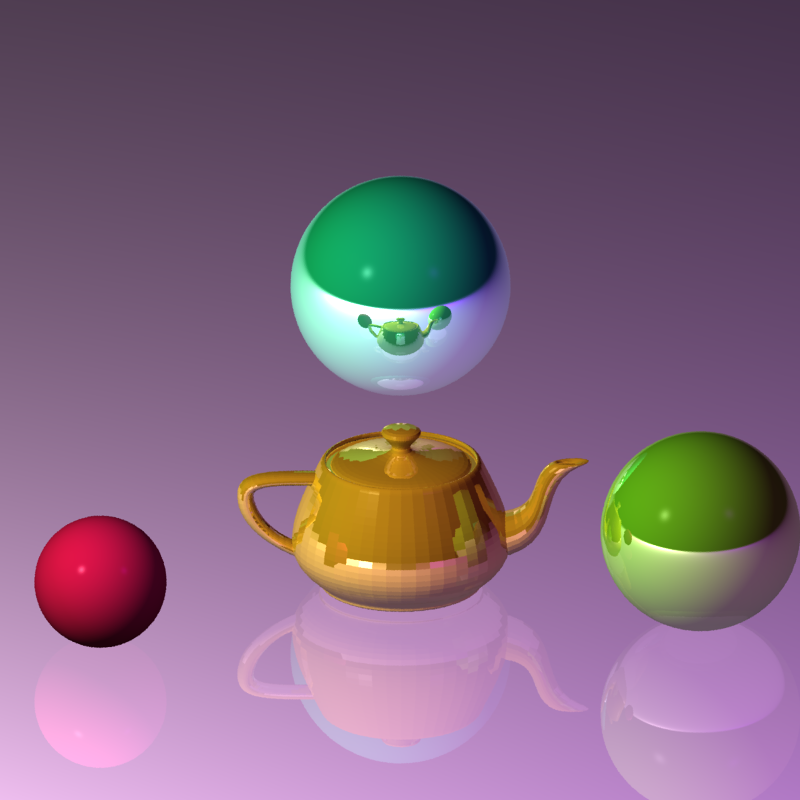
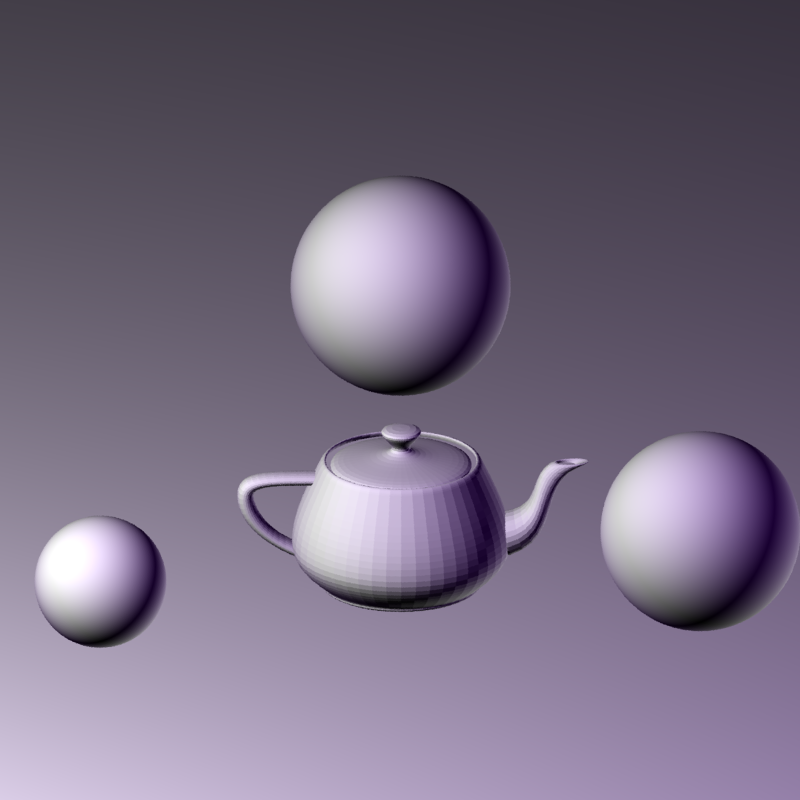
replace old Material with new

diff --git a/src/integrator/original.rs b/src/integrator/original.rs
@@ -1,6 +1,6 @@
 use crate::{
-    color::RgbSpectrum, geometry::vector, interaction::SurfaceInteraction, light::Light,
-    material_v1::MaterialV1, ray::Ray, sampler::IncrementalSampler, scene::Scene,
+    bsdf::BxdfType, color::RgbSpectrum, geometry::vector, interaction::SurfaceInteraction,
+    light::Light, material::Material, ray::Ray, sampler::IncrementalSampler, scene::Scene,
 };
 use cgmath::{InnerSpace, Point3, Vector3};
 use typed_arena::Arena;
@@ -38,7 +38,7 @@ impl OriginalRayTracer {
     pub fn shade_surface_interaction(
         scene: &Scene,
         interaction: &SurfaceInteraction,
-        material: &MaterialV1,
+        material: &dyn Material,
         remaining: usize,
     ) -> RgbSpectrum {
         scene
@@ -49,11 +49,11 @@ impl OriginalRayTracer {
                 // // the occlusion check doesn't accidentally intersect the surface.
                 // let in_shadow = Self::is_occluded(scene, interaction.over_point(), *light);
 
-                let surface = Self::shading(material, light, &interaction);
+                let surface = Self::shading_due_to_light(material, light, &interaction);
 
-                let reflected = Self::reflected_color(scene, material, interaction, remaining);
+                // let reflected = Self::reflected_color(scene, material, interaction, remaining);
 
-                color + surface + reflected
+                color + surface // + reflected
             })
     }
 
@@ -74,53 +74,65 @@ impl OriginalRayTracer {
     //     }
     // }
 
-    fn reflected_color(
-        scene: &Scene,
-        material: &MaterialV1,
-        interaction: &SurfaceInteraction,
-        remaining: usize,
-    ) -> RgbSpectrum {
-        if remaining < 1 || material.reflective == 0.0 {
-            RgbSpectrum::constant(0.0)
-        } else {
-            let reflect_ray = Ray::new(interaction.over_point(), interaction.reflect());
-            let color = Self::color_at(scene, &reflect_ray, remaining - 1);
-            color * material.reflective
-        }
-    }
+    // fn reflected_color(
+    //     scene: &Scene,
+    //     material: &dyn Material,
+    //     interaction: &SurfaceInteraction,
+    //     remaining: usize,
+    // ) -> RgbSpectrum {
+    //     if remaining < 1 || material.reflective == 0.0 {
+    //         RgbSpectrum::constant(0.0)
+    //     } else {
+    //         let reflect_ray = Ray::new(interaction.over_point(), interaction.reflect());
+    //         let color = Self::color_at(scene, &reflect_ray, remaining - 1);
+    //         color * material.reflective
+    //     }
+    // }
 
-    fn shading(
-        material: &MaterialV1,
+    fn shading_due_to_light(
+        material: &dyn Material,
         light: &Light, // FIXME
         interaction: &SurfaceInteraction,
     ) -> RgbSpectrum {
-        let (incident_light, to_light) = light.li(interaction);
-        let effective_color = &material.color * incident_light;
-        let ambient = &effective_color * material.ambient;
+        let (incident_light, wi) = light.li(interaction);
+        if incident_light.is_black() {
+            return RgbSpectrum::black();
+        }
 
-        // light_dot_normal is the cosine of the angle between the light and normal.
-        // If it's negative then the light is on the other side of the surface.
-        let light_dot_normal = to_light.dot(interaction.original_geometry.normal);
+        let bsdf = material.scattering_functions(interaction);
+        let f = bsdf.f(&interaction.neg_ray_direction, &wi, BxdfType::ALL);
+        if f.is_black() {
+            return RgbSpectrum::black();
+        }
 
-        let (diffuse, specular) = if light_dot_normal >= 0.0 {
-            let diffuse = effective_color * material.diffuse * light_dot_normal;
+        f * incident_light * wi.dot(interaction.original_geometry.normal).abs()
 
-            // reflect_dot_eye is the cosine of the angle between the reflection and
-            // the camera. If it's negative then the reflection is not visible.
-            let reflect = vector::reflect(-1.0 * to_light, interaction.original_geometry.normal);
-            let reflect_dot_eye = reflect.dot(interaction.neg_ray_direction);
-            let specular = if reflect_dot_eye <= 0.0 {
-                RgbSpectrum::constant(0.0)
-            } else {
-                let factor = reflect_dot_eye.powf(material.shininess);
-                incident_light * material.specular * factor
-            };
+        // let effective_color = &material.color * incident_light;
+        // let ambient = &effective_color * material.ambient;
 
-            (diffuse, specular)
-        } else {
-            (RgbSpectrum::black(), RgbSpectrum::black())
-        };
+        // // light_dot_normal is the cosine of the angle between the light and normal.
+        // // If it's negative then the light is on the other side of the surface.
+        // let light_dot_normal = to_light.dot(interaction.original_geometry.normal);
 
-        ambient + diffuse + specular
+        // let (diffuse, specular) = if light_dot_normal >= 0.0 {
+        //     let diffuse = effective_color * material.diffuse * light_dot_normal;
+
+        //     // reflect_dot_eye is the cosine of the angle between the reflection and
+        //     // the camera. If it's negative then the reflection is not visible.
+        //     let reflect = vector::reflect(-1.0 * to_light, interaction.original_geometry.normal);
+        //     let reflect_dot_eye = reflect.dot(interaction.neg_ray_direction);
+        //     let specular = if reflect_dot_eye <= 0.0 {
+        //         RgbSpectrum::constant(0.0)
+        //     } else {
+        //         let factor = reflect_dot_eye.powf(material.shininess);
+        //         incident_light * material.specular * factor
+        //     };
+
+        //     (diffuse, specular)
+        // } else {
+        //     (RgbSpectrum::black(), RgbSpectrum::black())
+        // };
+
+        // ambient + diffuse + specular
     }
 }

diff --git a/src/demo.rs b/src/demo.rs
@@ -6,7 +6,7 @@ use crate::{
     geometry::matrix::identity4,
     integrator::{render, OriginalRayTracer},
     light::Light,
-    material_v1::MaterialV1,
+    material::{Material, MatteMaterial},
     primitive::PrimitiveAggregate,
     sampler::{ConstantSampler, StratifiedSampler},
     scene::Scene,
@@ -57,7 +57,7 @@ pub fn teapot_orth() {
 fn teapot_scene<'msh, 'mtrx, 'mtrl>(
     mesh_arena: &'msh mut Arena<Mesh<'mtrx>>,
     matrix_arena: &'mtrx mut Arena<Matrix4<f32>>,
-    material_arena: &'mtrl mut Arena<MaterialV1>,
+    material_arena: &'mtrl mut Arena<MatteMaterial>,
 ) -> Scene<'msh, 'mtrx, 'mtrl> {
     let identity = matrix_arena.alloc(identity4());
     let right_transf = matrix_arena
@@ -74,46 +74,50 @@ fn teapot_scene<'msh, 'mtrx, 'mtrl>(
         matrix_arena.alloc(Matrix4::from_angle_x(Rad(PI / -2.0)) * Matrix4::from_scale(0.1));
     let inv_teapot_transf = matrix_arena.alloc(teapot_transf.inverse_transform().unwrap());
 
-    let floor_material = material_arena.alloc(MaterialV1::new(
-        RgbSpectrum::from_rgb(1.0, 0.9, 0.9),
-        0.1,
-        0.9,
-        0.0,
-        200.0,
-        0.1,
-    ));
-    let right_material = material_arena.alloc(MaterialV1::new(
-        RgbSpectrum::from_rgb(0.5, 1.0, 0.1),
-        0.1,
-        0.7,
-        0.3,
-        200.0,
-        0.25,
-    ));
-    let left_material = material_arena.alloc(MaterialV1::new(
-        RgbSpectrum::from_rgb(1.0, 0.1, 0.3),
-        0.1,
-        0.7,
-        0.3,
-        200.0,
+    let material = material_arena.alloc(MatteMaterial::new(
+        RgbSpectrum::from_rgb(0.4, 0.4, 0.4),
         0.0,
     ));
-    let back_material = material_arena.alloc(MaterialV1::new(
-        RgbSpectrum::from_rgb(0.1, 1.0, 0.5),
-        0.1,
-        0.7,
-        0.3,
-        200.0,
-        0.5,
-    ));
-    let triangle_material = material_arena.alloc(MaterialV1::new(
-        RgbSpectrum::from_rgb(1.0, 0.8, 0.1),
-        0.1,
-        0.7,
-        0.3,
-        100.0,
-        0.2,
-    ));
+    // let floor_material = material_arena.alloc(MaterialV1::new(
+    //     RgbSpectrum::from_rgb(1.0, 0.9, 0.9),
+    //     0.1,
+    //     0.9,
+    //     0.0,
+    //     200.0,
+    //     0.1,
+    // ));
+    // let right_material = material_arena.alloc(MaterialV1::new(
+    //     RgbSpectrum::from_rgb(0.5, 1.0, 0.1),
+    //     0.1,
+    //     0.7,
+    //     0.3,
+    //     200.0,
+    //     0.25,
+    // ));
+    // let left_material = material_arena.alloc(MaterialV1::new(
+    //     RgbSpectrum::from_rgb(1.0, 0.1, 0.3),
+    //     0.1,
+    //     0.7,
+    //     0.3,
+    //     200.0,
+    //     0.0,
+    // ));
+    // let back_material = material_arena.alloc(MaterialV1::new(
+    //     RgbSpectrum::from_rgb(0.1, 1.0, 0.5),
+    //     0.1,
+    //     0.7,
+    //     0.3,
+    //     200.0,
+    //     0.5,
+    // ));
+    // let triangle_material = material_arena.alloc(MaterialV1::new(
+    //     RgbSpectrum::from_rgb(1.0, 0.8, 0.1),
+    //     0.1,
+    //     0.7,
+    //     0.3,
+    //     100.0,
+    //     0.2,
+    // ));
 
     let floor = Shape::plane(identity, identity, false);
     let right = Shape::sphere(right_transf, right_inv_transf, false);
@@ -124,23 +128,23 @@ fn teapot_scene<'msh, 'mtrx, 'mtrl>(
     let mut reader = std::io::BufReader::new(&file);
     let teapot_mesh = mesh_arena
         .alloc(Mesh::from_stl(teapot_transf, inv_teapot_transf, false, &mut reader).unwrap());
-    let teapot = PrimitiveAggregate::from_mesh(teapot_mesh, triangle_material);
+    let teapot = PrimitiveAggregate::from_mesh(teapot_mesh, material);
 
     let light1 = Light::point_light(
         Point3::new(-10.0, 10.0, -10.0),
-        RgbSpectrum::from_rgb(1.0, 1.0, 1.0) * 250.0,
+        RgbSpectrum::from_rgb(1.0, 1.0, 1.0) * 2000.0,
     );
     let light2 = Light::point_light(
         Point3::new(10.0, 10.0, -10.0),
-        RgbSpectrum::from_rgb(0.2, 0.0, 0.4) * 250.0,
+        RgbSpectrum::from_rgb(0.2, 0.0, 0.4) * 1000.0,
     );
 
     Scene::new(
         PrimitiveAggregate::Vector(vec![
-            PrimitiveAggregate::primitive(floor, floor_material),
-            PrimitiveAggregate::primitive(right, right_material),
-            PrimitiveAggregate::primitive(left, left_material),
-            PrimitiveAggregate::primitive(back, back_material),
+            PrimitiveAggregate::primitive(floor, material),
+            PrimitiveAggregate::primitive(right, material),
+            PrimitiveAggregate::primitive(left, material),
+            PrimitiveAggregate::primitive(back, material),
             teapot,
         ]),
         vec![light1, light2],

diff --git a/src/primitive/aggregate.rs b/src/primitive/aggregate.rs
@@ -2,7 +2,7 @@ use super::Primitive;
 use crate::number;
 use crate::{
     interaction::SurfaceInteraction,
-    material_v1::MaterialV1,
+    material::Material,
     ray::Ray,
     shape::{Mesh, Shape},
 };
@@ -16,7 +16,10 @@ pub enum PrimitiveAggregate<'msh, 'mtrx, 'mtrl> {
 }
 
 impl<'msh, 'mtrx, 'mtrl> PrimitiveAggregate<'msh, 'mtrx, 'mtrl> {
-    pub fn primitive(shape: Shape<'msh, 'mtrx>, material: &'mtrl MaterialV1) -> Self {
+    pub fn primitive(
+        shape: Shape<'msh, 'mtrx>,
+        material: &'mtrl (dyn Material + Send + Sync),
+    ) -> Self {
         Self::Primitive(Primitive::new(shape, material))
     }
 
@@ -53,7 +56,10 @@ impl<'msh, 'mtrx, 'mtrl> PrimitiveAggregate<'msh, 'mtrx, 'mtrl> {
         }
     }
 
-    pub fn from_mesh(mesh: &'msh Mesh<'mtrx>, material: &'mtrl MaterialV1) -> Self {
+    pub fn from_mesh(
+        mesh: &'msh Mesh<'mtrx>,
+        material: &'mtrl (dyn Material + Send + Sync),
+    ) -> Self {
         let mut primitives: Vec<Primitive> = mesh
             .triangles()
             .into_iter()
@@ -67,8 +73,13 @@ impl<'msh, 'mtrx, 'mtrl> PrimitiveAggregate<'msh, 'mtrx, 'mtrl> {
 #[cfg(test)]
 mod ray_intersections_tests {
     use crate::{
-        color::RgbSpectrum, geometry::matrix::identity4, material_v1::MaterialV1,
-        primitive::PrimitiveAggregate, ray::Ray, shape::Shape, test::ApproxEq,
+        color::RgbSpectrum,
+        geometry::matrix::identity4,
+        material::{Material, MatteMaterial},
+        primitive::PrimitiveAggregate,
+        ray::Ray,
+        shape::Shape,
+        test::ApproxEq,
     };
     use cgmath::{Matrix4, Point3, Transform, Vector3};
 
@@ -77,14 +88,7 @@ mod ray_intersections_tests {
         let identity = identity4();
         let scale = Matrix4::from_scale(0.5);
         let inv_scale = scale.inverse_transform().unwrap();
-        let material = MaterialV1::new(
-            RgbSpectrum::from_rgb(0.8, 1.0, 0.6),
-            0.0,
-            0.7,
-            0.2,
-            0.0,
-            0.0,
-        );
+        let material = MatteMaterial::new(RgbSpectrum::from_rgb(1.0, 0.0, 0.0), 0.0);
         let sphere1 = Shape::sphere(&identity, &identity, false);
         let sphere2 = Shape::sphere(&scale, &inv_scale, false);
         let primitive1 = PrimitiveAggregate::primitive(sphere1, &material);

diff --git a/src/primitive/mod.rs b/src/primitive/mod.rs
@@ -2,15 +2,15 @@ mod aggregate;
 
 pub use aggregate::PrimitiveAggregate;
 
-use crate::{material_v1::MaterialV1, shape::Shape};
+use crate::{material::Material, shape::Shape};
 use bvh::{aabb::Bounded, bounding_hierarchy::BHShape};
 
 /// Combines a shape and a reference to a material. This is the basic primitive
 /// used in the construction of primitives aggregates.
-#[derive(Debug, Clone, Copy)]
+#[derive(Clone, Copy)]
 pub struct Primitive<'msh, 'mtrx, 'mtrl> {
     pub shape: Shape<'msh, 'mtrx>,
-    pub material: &'mtrl MaterialV1,
+    pub material: &'mtrl (dyn Material + Send + Sync),
 
     /// Tracks the index of the primitives in a bounding volume
     /// hierarchy if it is stored in one.
@@ -18,7 +18,7 @@ pub struct Primitive<'msh, 'mtrx, 'mtrl> {
 }
 
 impl<'msh, 'mtrx, 'mtrl> Primitive<'msh, 'mtrx, 'mtrl> {
-    pub fn new(shape: Shape<'msh, 'mtrx>, material: &'mtrl MaterialV1) -> Self {
+    pub fn new(shape: Shape<'msh, 'mtrx>, material: &'mtrl (dyn Material + Send + Sync)) -> Self {
         Self {
             shape,
             material,

diff --git a/src/main.rs b/src/main.rs
@@ -9,7 +9,6 @@ mod integrator;
 mod interaction;
 mod light;
 mod material;
-mod material_v1;
 mod number;
 mod primitive;
 mod ray;
